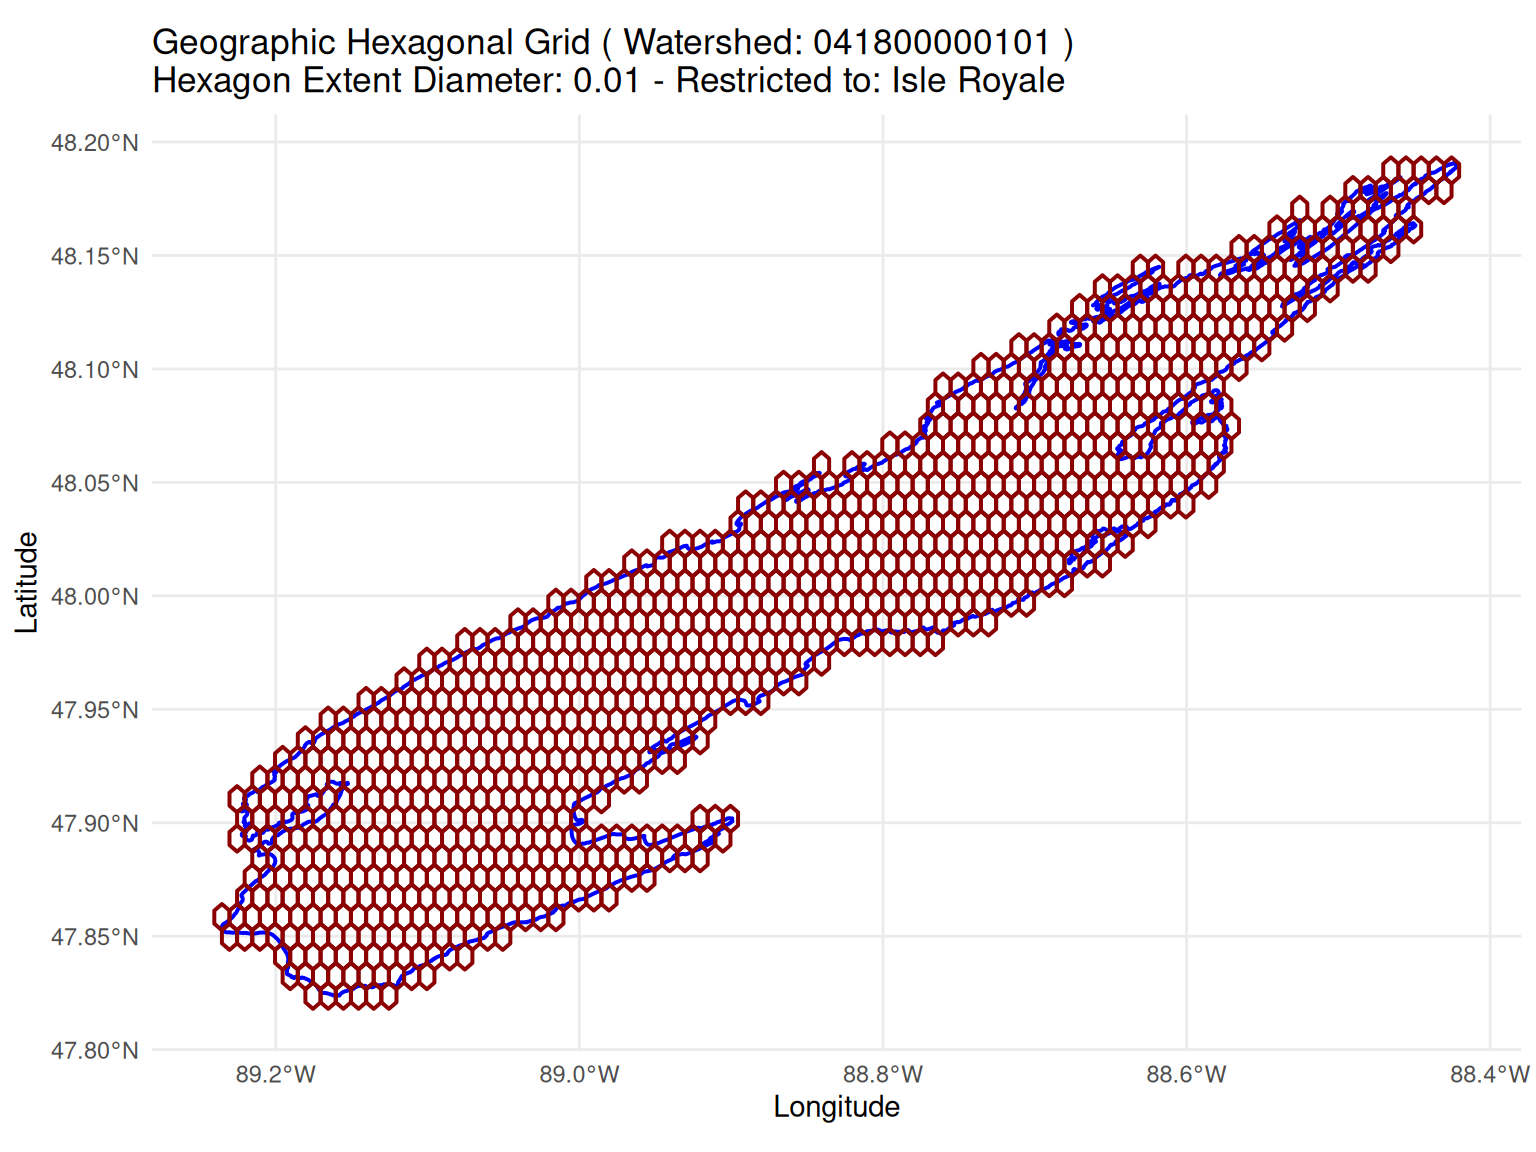
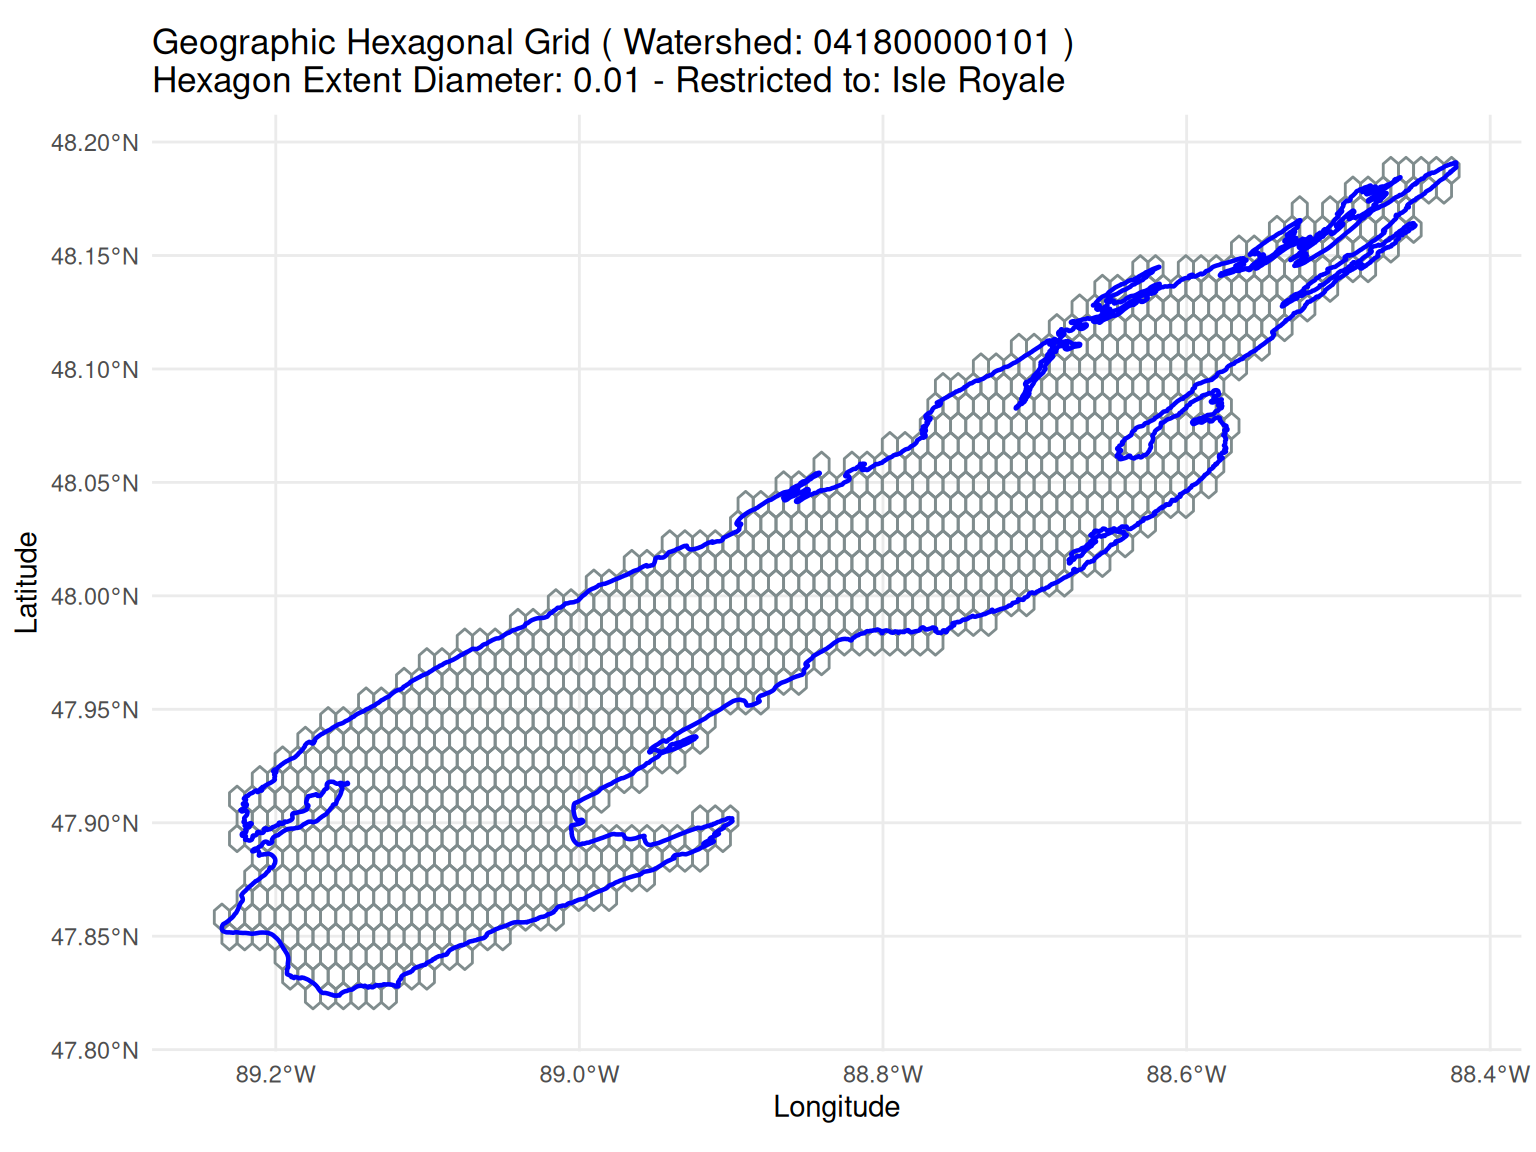
Deploying to gh-pages from @ byandell/hexmap@e6102e7ea61c3532231f82fdb4f420f5de5cc48f 🚀

Changed region(s): [[0.125, 0.125, 0.9688, 0.875]]

diff --git a/articles/user_guide.html b/articles/user_guide.html
@@ -33,7 +33,7 @@
 
     <a class="navbar-brand me-2" href="../index.html">hexmap</a>
 
-    <small class="nav-text text-muted me-auto" data-bs-toggle="tooltip" data-bs-placement="bottom" title="">0.2.0</small>
+    <small class="nav-text text-muted me-auto" data-bs-toggle="tooltip" data-bs-placement="bottom" title="">0.2.1</small>
 
 
     <button class="navbar-toggler" type="button" data-bs-toggle="collapse" data-bs-target="#navbar" aria-controls="navbar" aria-expanded="false" aria-label="Toggle navigation">
@@ -80,9 +80,10 @@ OpenStreetMap), and spatial projection of hexagonal substrate grid
 networks.</p>
 <p>This User Guide explains: 1. Interactive map exploration and regional
 search. 2. HUC subwatershed granularity auto-scaling and controls. 3.
-Hexagonal substrate mesh construction and habitat suitability scoring.
-4. The structure and usage of the consolidated single-object
-<strong>Hexmap Topology (.rds)</strong> download.</p>
+Hexagonal substrate mesh construction, geometric scale selection, and
+habitat suitability scoring. 4. The structure and usage of the
+consolidated single-object <strong>Hexmap Topology (.rds)</strong>
+download.</p>
 <hr>
 <div class="section level2">
 <h2 id="interactive-map-exploration-regional-search">1. Interactive Map Exploration &amp; Regional Search<a class="anchor" aria-label="anchor" href="#interactive-map-exploration-regional-search"></a>
@@ -104,9 +105,6 @@ regional search.</li>
 </h3>
 <ol style="list-style-type: decimal">
 <li>
-<strong>Point Reverse-Geocoding:</strong> Click any point on the
-Leaflet map to identify the enclosing USGS HUC12 subwatershed.</li>
-<li>
 <strong>Rubberband Polygon Draw Tool:</strong> Use the polygon draw
 tool (top left of Leaflet map) to outline an arbitrary regional
 boundary. Click <strong>Search Watersheds in Region</strong> to query
@@ -114,7 +112,12 @@ overlapping subwatersheds.</li>
 <li>
 <strong>Map Selection Toggling:</strong> Click any subwatershed
 shape directly on the map to toggle inclusion (purple outline) or
-exclusion (dashed red outline).</li>
+exclusion (dashed red outline) in-memory without making network API
+calls.</li>
+<li>
+<strong>No Unintentional Tapping Calls:</strong> Tapping the map
+background does not generate network API calls, preventing unexpected
+latency while panning or zooming.</li>
 <li>
 <strong>Clearing Regions:</strong> Click <strong>Clear
 Region</strong> or hit the polygon tool again to reset the map and start
@@ -203,20 +206,41 @@ subwatersheds (<code>HUC12</code> or <code>HUC10</code>).</p>
 </div>
 </div>
 <div class="section level2">
-<h2 id="hexagonal-substrate-grid-habitat-scoring">3. Hexagonal Substrate Grid &amp; Habitat Scoring<a class="anchor" aria-label="anchor" href="#hexagonal-substrate-grid-habitat-scoring"></a>
+<h2 id="hexagonal-substrate-grid-geometric-scale-selection">3. Hexagonal Substrate Grid &amp; Geometric Scale Selection<a class="anchor" aria-label="anchor" href="#hexagonal-substrate-grid-geometric-scale-selection"></a>
 </h2>
-<p>Once watershed boundaries are selected, <code>hexmap</code> projects
-a regular spatial hexagonal grid (<code>sfc_POLYGON</code>) across the
-boundary extent.</p>
+<p>Once watershed boundaries are selected, <code>hexmap</code> can
+optionally project a regular spatial hexagonal grid
+(<code>sfc_POLYGON</code>) across the boundary extent.</p>
 <ul>
+<li><p><strong>Optional Hex Overlay:</strong> Unchecking <strong>Include
+Hexagonal Grid Overlay</strong> skips hex grid construction, returning
+pure watershed boundaries, subwatersheds, and habitat features with
+<code>hex_overlay = NULL</code>.</p></li>
+<li><p><strong>Geometric Hexagon Scale (10 to 1,000):</strong> Users
+adjust the <strong>Approximate Number of Hexagons</strong> slider across
+geometric steps:
+<math display="block" xmlns="http://www.w3.org/1998/Math/MathML"><semantics><mrow><mrow><mtext mathvariant="normal">Target Hexagons </mtext><mspace width="0.333em"></mspace></mrow><mi>N</mi><mo>∈</mo><mo stretchy="false" form="prefix">{</mo><mn>10</mn><mo>,</mo><mn>20</mn><mo>,</mo><mn>50</mn><mo>,</mo><mn>100</mn><mo>,</mo><mn>200</mn><mo>,</mo><mn>500</mn><mo>,</mo><mn>1000</mn><mo stretchy="false" form="postfix">}</mo></mrow><annotation encoding="application/x-tex">\text{Target Hexagons } N \in \{10, 20, 50, 100, 200, 500, 1000\}</annotation></semantics></math>
+(Default: <code>100</code> hexagons).</p></li>
+<li><p><strong>Area-Based Diameter Calculation:</strong>
+<code>hexmap</code> computes the bounding box area
+<math display="inline" xmlns="http://www.w3.org/1998/Math/MathML"><semantics><mi>A</mi><annotation encoding="application/x-tex">A</annotation></semantics></math>
+of the active region and automatically solves for the cell diameter
+<math display="inline" xmlns="http://www.w3.org/1998/Math/MathML"><semantics><mi>d</mi><annotation encoding="application/x-tex">d</annotation></semantics></math>:
+<math display="block" xmlns="http://www.w3.org/1998/Math/MathML"><semantics><mrow><mi>d</mi><mo>=</mo><msqrt><mfrac><mi>A</mi><mrow><mn>0.65</mn><mo>×</mo><mi>N</mi></mrow></mfrac></msqrt></mrow><annotation encoding="application/x-tex">d = \sqrt{\frac{A}{0.65 \times N}}</annotation></semantics></math>
+This guarantees that choosing
+<math display="inline" xmlns="http://www.w3.org/1998/Math/MathML"><semantics><mrow><mi>N</mi><mo>=</mo><mn>100</mn></mrow><annotation encoding="application/x-tex">N = 100</annotation></semantics></math>
+hexagons will ALWAYS generate ~100 grid cells regardless of whether the
+target region is a small island or a multi-state watershed.</p></li>
+<li><p><strong>Gray Color &amp; Background Layering:</strong> The
+hexagonal substrate grid is rendered in subtle slate gray
+(<code>#7F8C8D</code>) and positioned <strong>behind</strong> the HUC
+watershed boundaries in both Leaflet maps and <code>ggplot2</code>
+autoplots, keeping watershed boundaries bold and prominent.</p></li>
 <li>
-<strong>Hexagon Extent Diameter:</strong> Configurable via sidebar
-slider in degrees (default: <code>0.01</code> degrees, ~1 km).</li>
-<li>
-<strong>Habitat Suitability Overlay:</strong> When <strong>Overlay
-Habitat Features &amp; Landmarks</strong> is enabled,
+<p><strong>Habitat Suitability Overlay:</strong> When
+<strong>Overlay Habitat Features &amp; Landmarks</strong> is enabled,
 <code>hexmap</code> queries OpenStreetMap for ecological features and
-scores each hex cell:
+scores each hex cell:</p>
 <ul>
 <li>
 <strong>Lakes &amp; Ponds:</strong> +2.0 weight</li>
@@ -246,13 +270,13 @@ containing all spatial layers and metadata.</p>
 <pre><code>topology_object (S3 class: habitat_hex_overlay / watershed_hex_overlay)
 ├── $layer            : sf / sfc polygon boundary (selected region / feature restriction)
 ├── $individual_hucs  : sf data frame of individual component subwatersheds
-├── $hex_overlay      : sfc polygon geometry list of hexagonal grid cells
-├── $hex_habitat_sf   : sf data frame of hex cells with habitat scores &amp; types
+├── $hex_overlay      : sfc polygon geometry list of hexagonal grid cells (or NULL if disabled)
+├── $hex_habitat_sf   : sf data frame of hex cells with habitat scores &amp; types (or NULL if disabled)
 ├── $habitat_sf       : sf data frame of extracted OpenStreetMap habitat polygons
 ├── $landmarks_sf     : sf data frame of point sighting landmarks
 ├── $huc_id           : character vector of selected HUC ID(s)
 ├── $feature_name     : character string of applied feature restriction (or NULL)
-└── $hex_diameter     : numeric hexagon extent diameter in degrees</code></pre>
+└── $hex_diameter     : numeric hexagon extent diameter in degrees (or NULL if disabled)</code></pre>
 </div>
 <div class="section level3">
 <h3 id="inspecting-downloaded-files-in-r">Inspecting Downloaded Files in R<a class="anchor" aria-label="anchor" href="#inspecting-downloaded-files-in-r"></a>
@@ -275,8 +299,11 @@ containing all spatial layers and metadata.</p>
 <span><span class="co"># 3. Extract individual subwatersheds</span></span>
 <span><span class="va">hucs_sf</span> <span class="op">&lt;-</span> <span class="va">topo</span><span class="op">$</span><span class="va">individual_hucs</span></span>
 <span></span>
-<span><span class="co"># 4. Extract hexagonal substrate grid with suitability weights</span></span>
-<span><span class="va">hex_mesh_sf</span> <span class="op">&lt;-</span> <span class="va">topo</span><span class="op">$</span><span class="va">hex_habitat_sf</span></span>
+<span><span class="co"># 4. Extract hexagonal substrate grid with suitability weights (if enabled)</span></span>
+<span><span class="kw">if</span> <span class="op">(</span><span class="op">!</span><span class="fu"><a href="https://rdrr.io/r/base/NULL.html" class="external-link">is.null</a></span><span class="op">(</span><span class="va">topo</span><span class="op">$</span><span class="va">hex_habitat_sf</span><span class="op">)</span><span class="op">)</span> <span class="op">{</span></span>
+<span>  <span class="va">hex_mesh_sf</span> <span class="op">&lt;-</span> <span class="va">topo</span><span class="op">$</span><span class="va">hex_habitat_sf</span></span>
+<span>  <span class="fu"><a href="https://rdrr.io/r/utils/head.html" class="external-link">head</a></span><span class="op">(</span><span class="va">hex_mesh_sf</span><span class="op">)</span></span>
+<span><span class="op">}</span></span>
 <span></span>
 <span><span class="co"># 5. Render static ggplot autoplot directly</span></span>
 <span><span class="fu"><a href="https://ggplot2.tidyverse.org/reference/autoplot.html" class="external-link">autoplot</a></span><span class="op">(</span><span class="va">topo</span><span class="op">)</span></span></code></pre></div>

diff --git a/articles/hexmap.html b/articles/hexmap.html
@@ -33,7 +33,7 @@
 
     <a class="navbar-brand me-2" href="../index.html">hexmap</a>
 
-    <small class="nav-text text-muted me-auto" data-bs-toggle="tooltip" data-bs-placement="bottom" title="">0.2.0</small>
+    <small class="nav-text text-muted me-auto" data-bs-toggle="tooltip" data-bs-placement="bottom" title="">0.2.1</small>
 
 
     <button class="navbar-toggler" type="button" data-bs-toggle="collapse" data-bs-target="#navbar" aria-controls="navbar" aria-expanded="false" aria-label="Toggle navigation">
@@ -181,20 +181,43 @@ count of 4–6 sub-basins.</li>
 </ul>
 </li>
 <li>
-<strong>Interactive Map Clearing &amp; Granularity Sidebar
-Control</strong>:
+<strong>Geometric Hexagon Scale &amp; Gray Background
+Layering</strong>:
 <ul>
-<li>Added a <strong>Max Target HUCs (Granularity)</strong> slider input
-(<code>min = 3, max = 15, default = 6</code>) to
-<code><a href="../reference/hexmapApp.html">hexmapInput()</a></code> in <a href="../R/hexmapApp.R"><code>R/hexmapApp.R</code></a>, passing a
-reactive <code>max_hucs</code> expression to
-<code><a href="../reference/leafletApp.html">leafletServer()</a></code> in <a href="../R/leafletApp.R"><code>R/leafletApp.R</code></a>.</li>
+<li>Replaced degree diameter sliders with an indexed geometric scale
+slider (<code>n_hex_idx</code>, values:
+<code>10, 20, 50, 100, 200, 500, 1000</code>, default: <code>100</code>)
+in <a href="../R/hexmapApp.R"><code>R/hexmapApp.R</code></a>.</li>
+<li>Dynamically computes cell diameter
+<math display="inline" xmlns="http://www.w3.org/1998/Math/MathML"><semantics><mrow><mi>d</mi><mo>=</mo><msqrt><mrow><mi>A</mi><mi>/</mi><mo stretchy="false" form="prefix">(</mo><mn>0.65</mn><mo>×</mo><mi>N</mi><mo stretchy="false" form="postfix">)</mo></mrow></msqrt></mrow><annotation encoding="application/x-tex">d = \sqrt{A / (0.65 \times N)}</annotation></semantics></math>
+based on region bounding box area
+<math display="inline" xmlns="http://www.w3.org/1998/Math/MathML"><semantics><mi>A</mi><annotation encoding="application/x-tex">A</annotation></semantics></math>,
+guaranteeing consistent grid cell density across both small islands and
+multi-state regional watersheds.</li>
+<li>Rendered hex grid in subtle slate gray (<code>#7F8C8D</code>) and
+positioned it <strong>behind</strong> HUC boundaries in Leaflet maps and
+<code>ggplot2</code> autoplots (<a href="../R/leaflet.R"><code>R/leaflet.R</code></a>, <a href="../R/watershed.R"><code>R/watershed.R</code></a>, <a href="../R/habitat.R"><code>R/habitat.R</code></a>).</li>
+<li>Added an <strong>Include Hexagonal Grid Overlay</strong> checkbox
+(<code>enable_hex</code>) allowing users to toggle hex mesh generation
+on or off while retaining watershed boundaries and habitat
+overlays.</li>
+</ul>
+</li>
+<li>
+<strong>Interactive Map Clearing &amp; Reorganized Sidebar</strong>:
+<ul>
+<li>Reorganized sidebar UI controls in <code><a href="../reference/hexmapApp.html">hexmapInput()</a></code>,
+placing primary grid settings at the top and moving the selected HUCs
+multi-select list to the bottom.</li>
 <li>Updated Leaflet draw observers (<code>input$clear_region</code>,
 <code>input$mapper_draw_start</code>,
 <code>input$mapper_draw_new_feature</code>) to purge previous drawn
 rubberband shapes (<code>clearGroup("Drawn Region")</code>) and HUC
 shapes (<code>clearGroup("huc_polygons")</code>) when clicking “Clear
 Region” or starting a new polygon draw operation.</li>
+<li>Disabled automatic point reverse-geocoding network calls on map
+background taps (<code>input$mapper_click</code>), preventing unexpected
+latency while panning or zooming.</li>
 </ul>
 </li>
 <li>

diff --git a/authors.html b/authors.html
@@ -18,7 +18,7 @@
 
     <a class="navbar-brand me-2" href="index.html">hexmap</a>
 
-    <small class="nav-text text-muted me-auto" data-bs-toggle="tooltip" data-bs-placement="bottom" title="">0.2.0</small>
+    <small class="nav-text text-muted me-auto" data-bs-toggle="tooltip" data-bs-placement="bottom" title="">0.2.1</small>
 
 
     <button class="navbar-toggler" type="button" data-bs-toggle="collapse" data-bs-target="#navbar" aria-controls="navbar" aria-expanded="false" aria-label="Toggle navigation">
@@ -58,13 +58,13 @@
 
       <p>Yandell B (2026).
 <em>hexmap: Interactive Hexagonal Watershed Mapping and Spatial Projection</em>.
-R package version 0.2.0, <a href="https://byandell.github.io/hexmap/">https://byandell.github.io/hexmap/</a>.
+R package version 0.2.1, <a href="https://byandell.github.io/hexmap/">https://byandell.github.io/hexmap/</a>.
 </p>
       <pre>@Manual{,
   title = {hexmap: Interactive Hexagonal Watershed Mapping and Spatial Projection},
   author = {Brian S. Yandell},
   year = {2026},
-  note = {R package version 0.2.0},
+  note = {R package version 0.2.1},
   url = {https://byandell.github.io/hexmap/},
 }</pre>
     </div>

diff --git a/reference/get_site_cache_file.html b/reference/get_site_cache_file.html
@@ -20,7 +20,7 @@ directories (`extdata/[site]`) and local development trees (`inst/extdata/[site]
 
     <a class="navbar-brand me-2" href="../index.html">hexmap</a>
 
-    <small class="nav-text text-muted me-auto" data-bs-toggle="tooltip" data-bs-placement="bottom" title="">0.2.0</small>
+    <small class="nav-text text-muted me-auto" data-bs-toggle="tooltip" data-bs-placement="bottom" title="">0.2.1</small>
 
 
     <button class="navbar-toggler" type="button" data-bs-toggle="collapse" data-bs-target="#navbar" aria-controls="navbar" aria-expanded="false" aria-label="Toggle navigation">

diff --git a/reference/habitat.html b/reference/habitat.html
@@ -38,7 +38,7 @@ with a hexagonal substrate grid overlay, calculating habitat suitability weights
 
     <a class="navbar-brand me-2" href="../index.html">hexmap</a>
 
-    <small class="nav-text text-muted me-auto" data-bs-toggle="tooltip" data-bs-placement="bottom" title="">0.2.0</small>
+    <small class="nav-text text-muted me-auto" data-bs-toggle="tooltip" data-bs-placement="bottom" title="">0.2.1</small>
 
 
     <button class="navbar-toggler" type="button" data-bs-toggle="collapse" data-bs-target="#navbar" aria-controls="navbar" aria-expanded="false" aria-label="Toggle navigation">

diff --git a/reference/hexmapApp.html b/reference/hexmapApp.html
@@ -34,7 +34,7 @@ and hexagonal substrate grid overlays.'><script src="https://cdn.jsdelivr.net/np
 
     <a class="navbar-brand me-2" href="../index.html">hexmap</a>
 
-    <small class="nav-text text-muted me-auto" data-bs-toggle="tooltip" data-bs-placement="bottom" title="">0.2.0</small>
+    <small class="nav-text text-muted me-auto" data-bs-toggle="tooltip" data-bs-placement="bottom" title="">0.2.1</small>
 
 
     <button class="navbar-toggler" type="button" data-bs-toggle="collapse" data-bs-target="#navbar" aria-controls="navbar" aria-expanded="false" aria-label="Toggle navigation">

diff --git a/reference/leaflet.html b/reference/leaflet.html
@@ -22,7 +22,7 @@ hexagonal grid overlays."><script src="https://cdn.jsdelivr.net/npm/mermaid@10/d
 
     <a class="navbar-brand me-2" href="../index.html">hexmap</a>
 
-    <small class="nav-text text-muted me-auto" data-bs-toggle="tooltip" data-bs-placement="bottom" title="">0.2.0</small>
+    <small class="nav-text text-muted me-auto" data-bs-toggle="tooltip" data-bs-placement="bottom" title="">0.2.1</small>
 
 
     <button class="navbar-toggler" type="button" data-bs-toggle="collapse" data-bs-target="#navbar" aria-controls="navbar" aria-expanded="false" aria-label="Toggle navigation">

diff --git a/reference/leafletApp.html b/reference/leafletApp.html
@@ -26,7 +26,7 @@ Run the Leaflet Mapping Integration App Tracker"><script src="https://cdn.jsdeli
 
     <a class="navbar-brand me-2" href="../index.html">hexmap</a>
 
-    <small class="nav-text text-muted me-auto" data-bs-toggle="tooltip" data-bs-placement="bottom" title="">0.2.0</small>
+    <small class="nav-text text-muted me-auto" data-bs-toggle="tooltip" data-bs-placement="bottom" title="">0.2.1</small>
 
 
     <button class="navbar-toggler" type="button" data-bs-toggle="collapse" data-bs-target="#navbar" aria-controls="navbar" aria-expanded="false" aria-label="Toggle navigation">

diff --git a/reference/watershed.html b/reference/watershed.html
@@ -24,7 +24,7 @@ Projects a mathematical hexagonal substrate grid overlay across an extracted wat
 
     <a class="navbar-brand me-2" href="../index.html">hexmap</a>
 
-    <small class="nav-text text-muted me-auto" data-bs-toggle="tooltip" data-bs-placement="bottom" title="">0.2.0</small>
+    <small class="nav-text text-muted me-auto" data-bs-toggle="tooltip" data-bs-placement="bottom" title="">0.2.1</small>
 
 
     <button class="navbar-toggler" type="button" data-bs-toggle="collapse" data-bs-target="#navbar" aria-controls="navbar" aria-expanded="false" aria-label="Toggle navigation">

diff --git a/404.html b/404.html
@@ -33,7 +33,7 @@
 
     <a class="navbar-brand me-2" href="https://byandell.github.io/hexmap/index.html">hexmap</a>
 
-    <small class="nav-text text-muted me-auto" data-bs-toggle="tooltip" data-bs-placement="bottom" title="">0.2.0</small>
+    <small class="nav-text text-muted me-auto" data-bs-toggle="tooltip" data-bs-placement="bottom" title="">0.2.1</small>
 
 
     <button class="navbar-toggler" type="button" data-bs-toggle="collapse" data-bs-target="#navbar" aria-controls="navbar" aria-expanded="false" aria-label="Toggle navigation">

diff --git a/articles/index.html b/articles/index.html
@@ -18,7 +18,7 @@
 
     <a class="navbar-brand me-2" href="../index.html">hexmap</a>
 
-    <small class="nav-text text-muted me-auto" data-bs-toggle="tooltip" data-bs-placement="bottom" title="">0.2.0</small>
+    <small class="nav-text text-muted me-auto" data-bs-toggle="tooltip" data-bs-placement="bottom" title="">0.2.1</small>
 
 
     <button class="navbar-toggler" type="button" data-bs-toggle="collapse" data-bs-target="#navbar" aria-controls="navbar" aria-expanded="false" aria-label="Toggle navigation">

diff --git a/reference/index.html b/reference/index.html
@@ -18,7 +18,7 @@
 
     <a class="navbar-brand me-2" href="../index.html">hexmap</a>
 
-    <small class="nav-text text-muted me-auto" data-bs-toggle="tooltip" data-bs-placement="bottom" title="">0.2.0</small>
+    <small class="nav-text text-muted me-auto" data-bs-toggle="tooltip" data-bs-placement="bottom" title="">0.2.1</small>
 
 
     <button class="navbar-toggler" type="button" data-bs-toggle="collapse" data-bs-target="#navbar" aria-controls="navbar" aria-expanded="false" aria-label="Toggle navigation">
